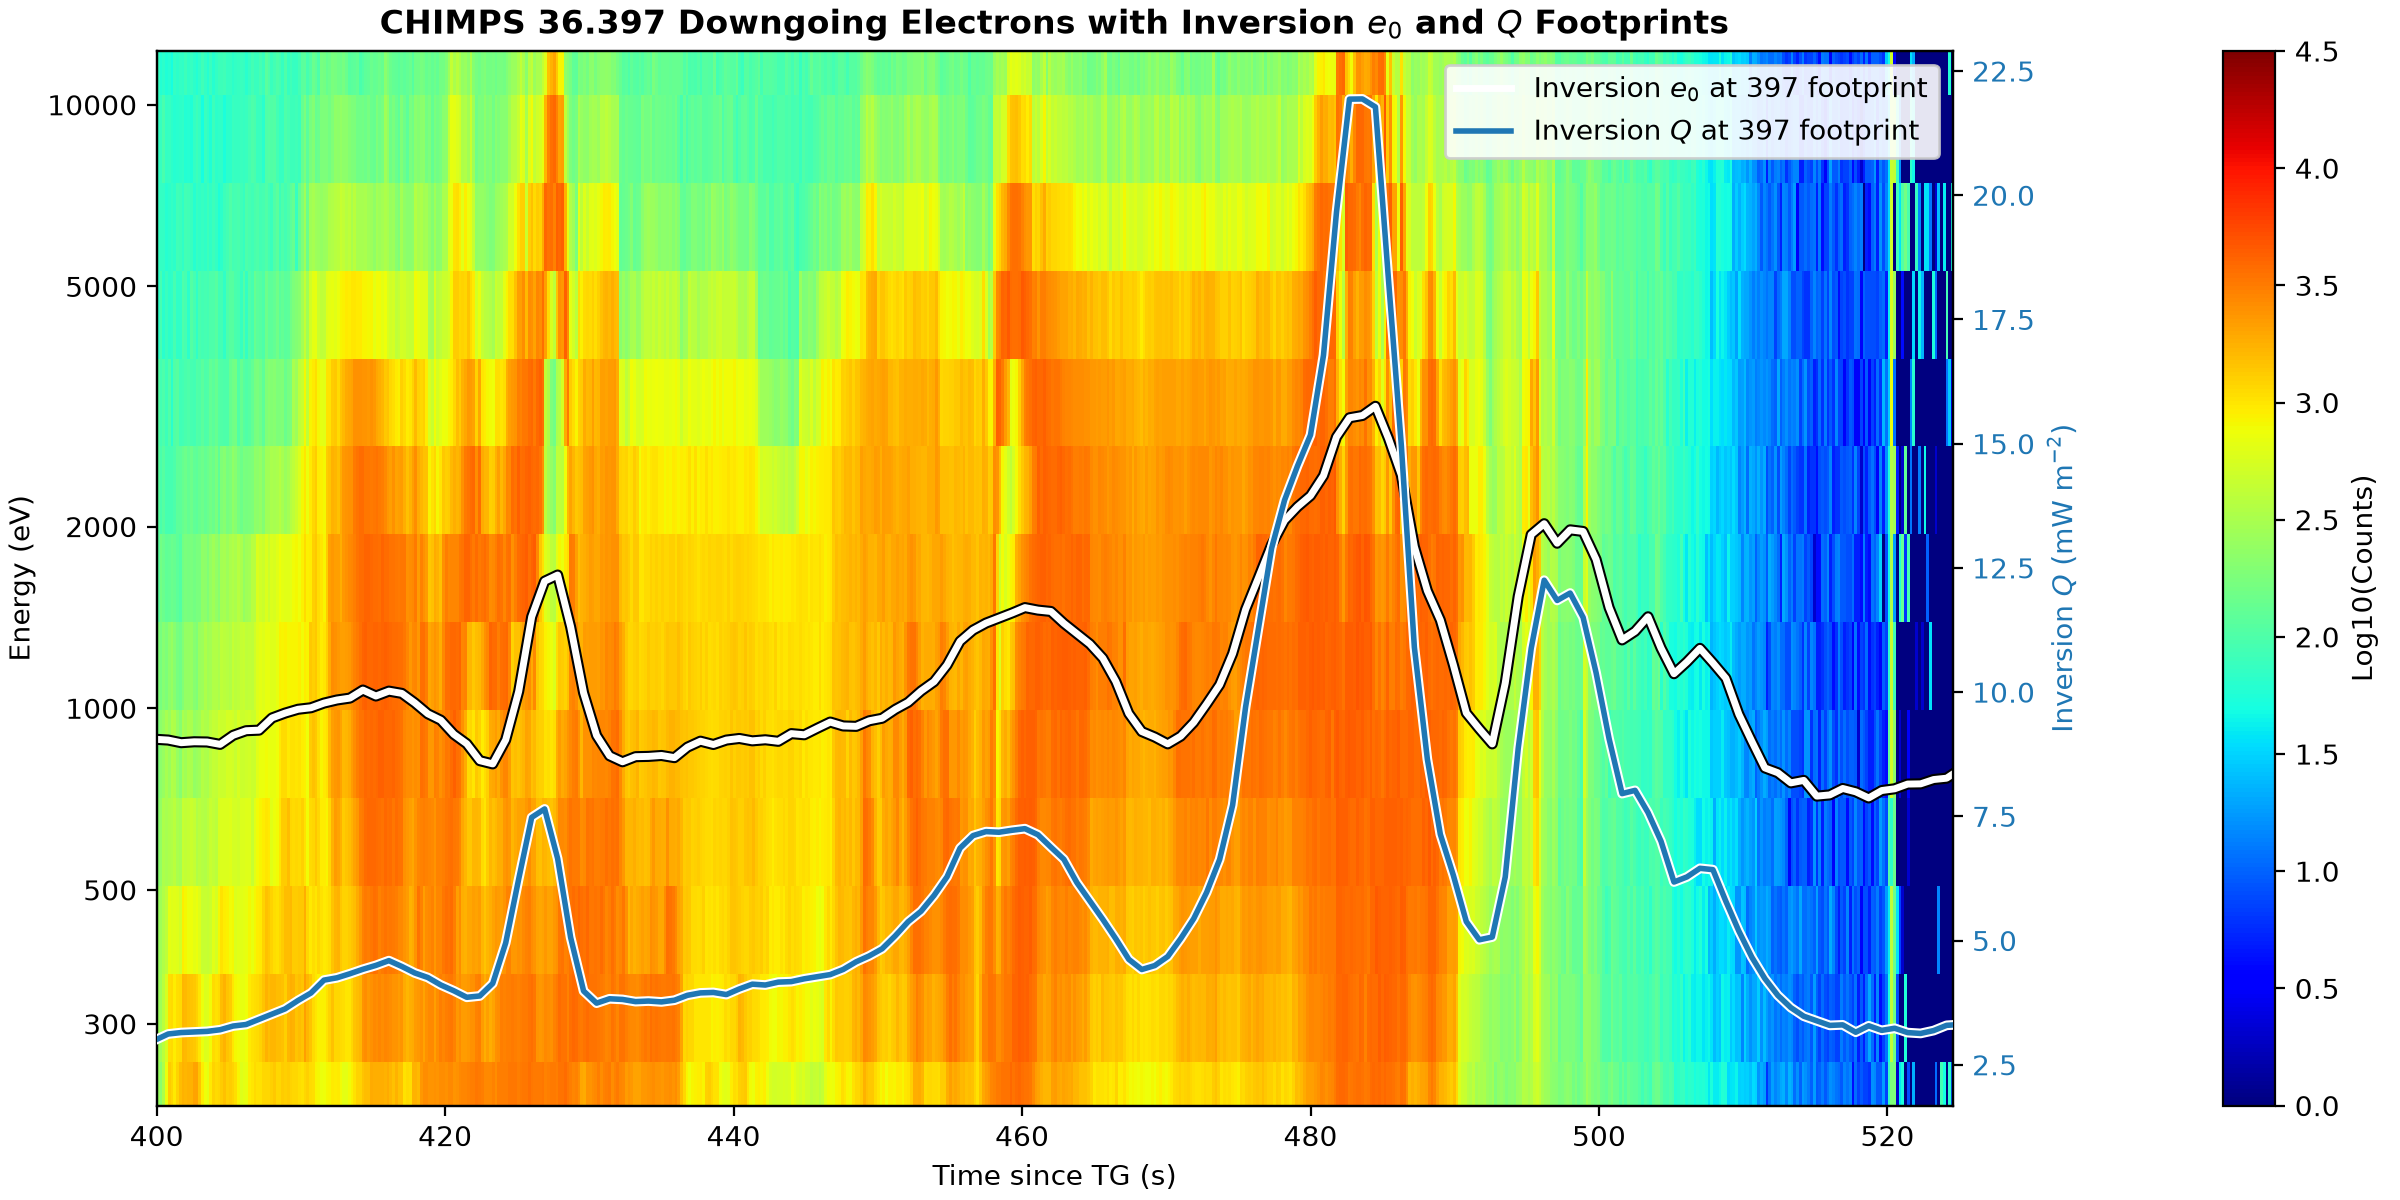
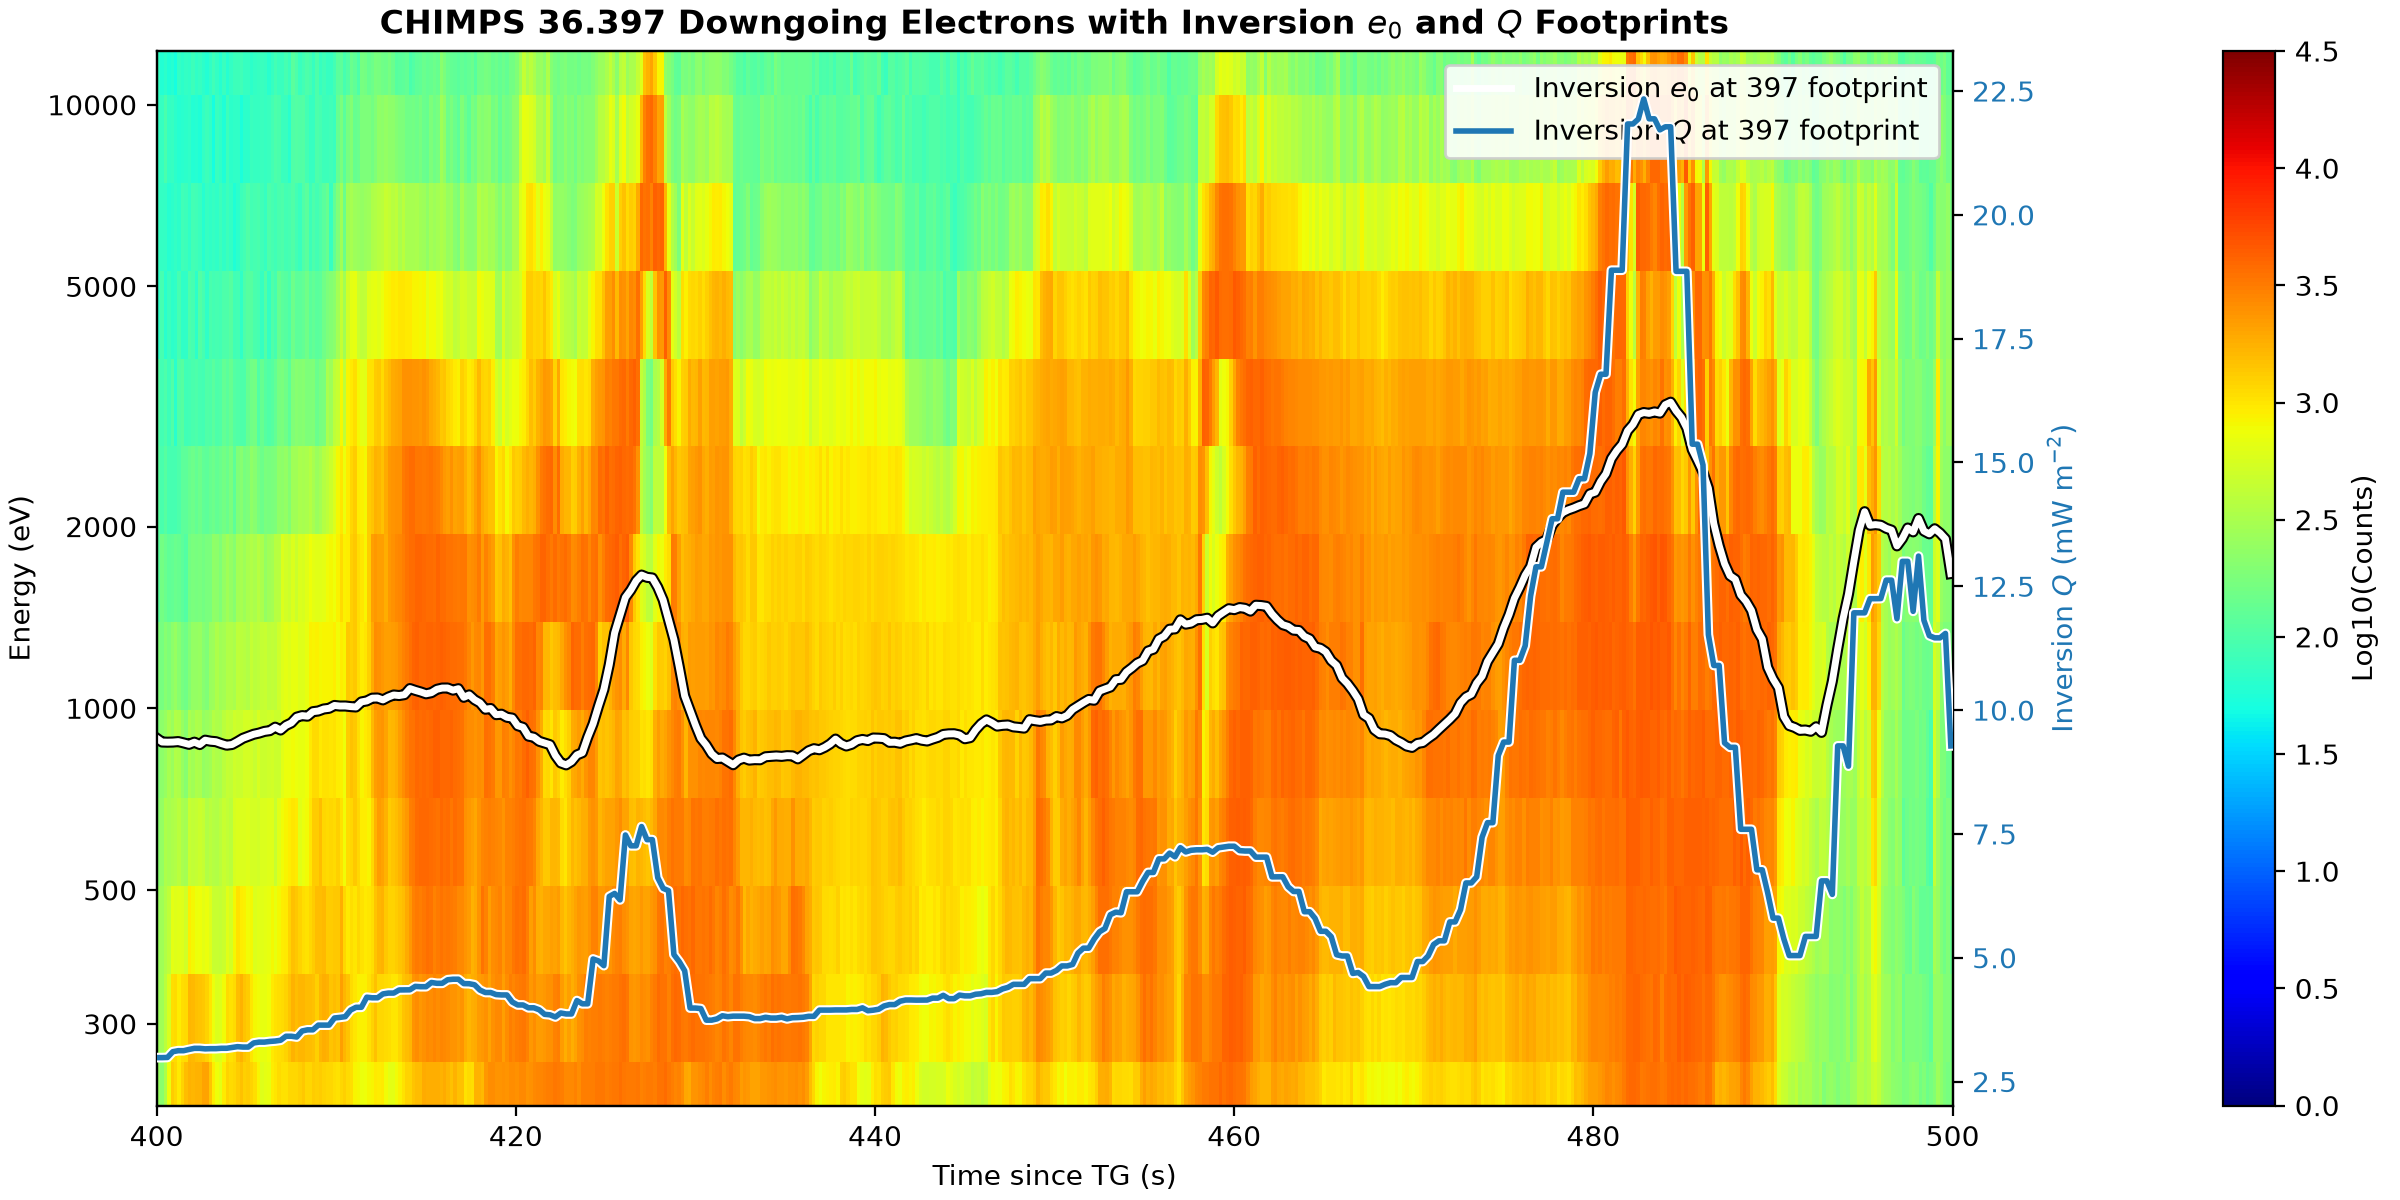
add blue option to ipps_brightness_series.py

diff --git a/ipps_brightness_series.py b/ipps_brightness_series.py
@@ -328,12 +328,12 @@ def main():
     ap.add_argument("--sites", nargs="*", default=None, help="Sites to include")
     ap.add_argument("--mission", choices=["GNEISS", "GIRAFF"], default="GNEISS", help="Mission dataset to use")
     ap.add_argument("--receivers", nargs="*", default=None, help="Receiver acronyms to include in the HDF5 file and plot")
-    ap.add_argument("--color", choices=["green", "red"], default="green", help="ASI color channel")
+    ap.add_argument("--color", choices=["green", "red", "blue"], default="green", help="ASI color channel; blue is 4278 Angstrom (GNEISS ARV/BVR/VEE)")
     ap.add_argument(
         "--auroral-layer-height-km",
         type=float,
         default=None,
-        help="Auroral layer and IPP height in km; defaults to 110 for green and 180 for red",
+        help="Auroral layer and IPP height in km; defaults to 110 for green/blue and 180 for red",
     )
     ap.add_argument("--output", default=None, help="Output HDF5 path")
     ap.add_argument("--no-plot", action="store_true", help="Write the HDF5 file only and skip the PNG plot")
@@ -366,6 +366,8 @@ def main():
     if not calibrated_sites:
         ap.error(f"none of the requested sites has a {args.color} Rayleigh calibration")
     args.sites = calibrated_sites
+    if args.color == "blue" and (args.mission != "GNEISS" or not set(args.sites).issubset({"ARV", "BVR", "VEE"})):
+        ap.error("--color blue currently supports only --mission GNEISS with sites ARV, BVR, VEE")
     for site in args.sites:
         print(
             f"{site}: calibration factor={calibration_factor(site, args.color):g} R s/count, "
@@ -411,7 +413,11 @@ def main():
         if site in selected_sites:
             tiff_candidates[site] = get_site_tiff_candidates(site, args.date, args.color, mission=args.mission)
 
-    frame_interval = FRAME_INTERVAL_SECONDS_GREEN if args.color == "green" else FRAME_INTERVAL_SECONDS_RED
+    frame_interval = {
+        "green": FRAME_INTERVAL_SECONDS_GREEN,
+        "red": FRAME_INTERVAL_SECONDS_RED,
+        "blue": 0.90178,
+    }[args.color]
     for site in ["ARV", "VEE", "BVR"]:
         if site in tiff_candidates:
             tiff_metadata[site] = build_tiff_metadata(tiff_candidates[site], frame_interval)

diff --git a/comparisons/compare_chimps_inversion_footprint.py b/comparisons/compare_chimps_inversion_footprint.py
@@ -23,7 +23,7 @@ import numpy as np
 from core.paths import DATA_ROOT, WORKSPACE_DIR
 
 
-DEFAULT_FOOTPRINT_H5 = WORKSPACE_DIR / "asispectralinversion" / "outputs" / "gneiss_rgb_102400_102900_step0.9s_footprints.h5"
+DEFAULT_FOOTPRINT_H5 = WORKSPACE_DIR / "asispectralinversion" / "outputs" / "gneiss_rgb_102540_102720_step0.3s_footprints.h5"
 DEFAULT_CHIMPS_H5 = DATA_ROOT / "processed" / "gneiss" / "stackplot" / "chimps_397_downgoing_data.h5"
 DEFAULT_BRIGHTNESS_H5 = DATA_ROOT / "processed" / "gneiss" / "stackplot" / "brightness_vs_time_101900_102848_step0p05.h5"
 DEFAULT_OUTPUT = Path(__file__).with_name("compare_chimps_spectra_e0_footprint.png")
